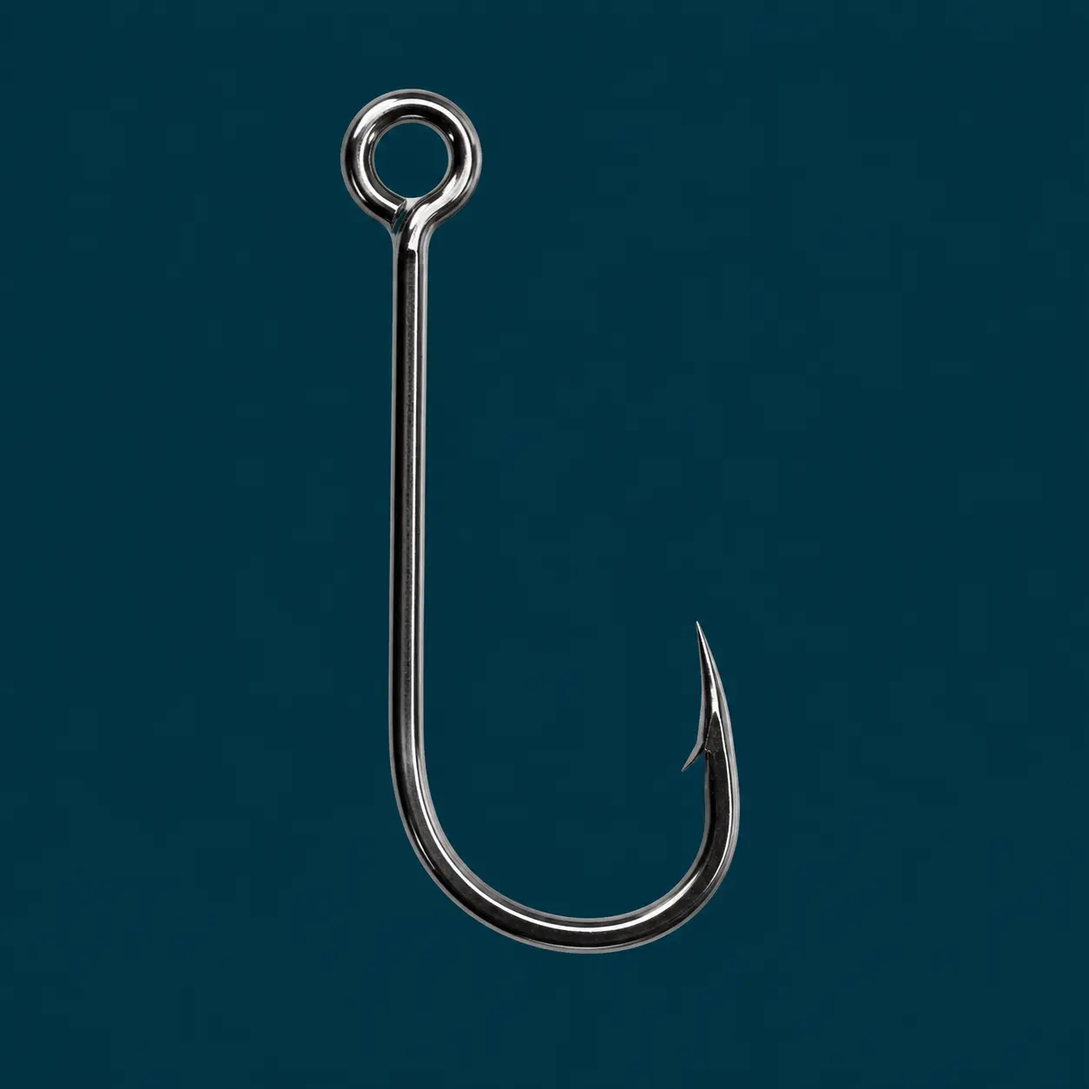
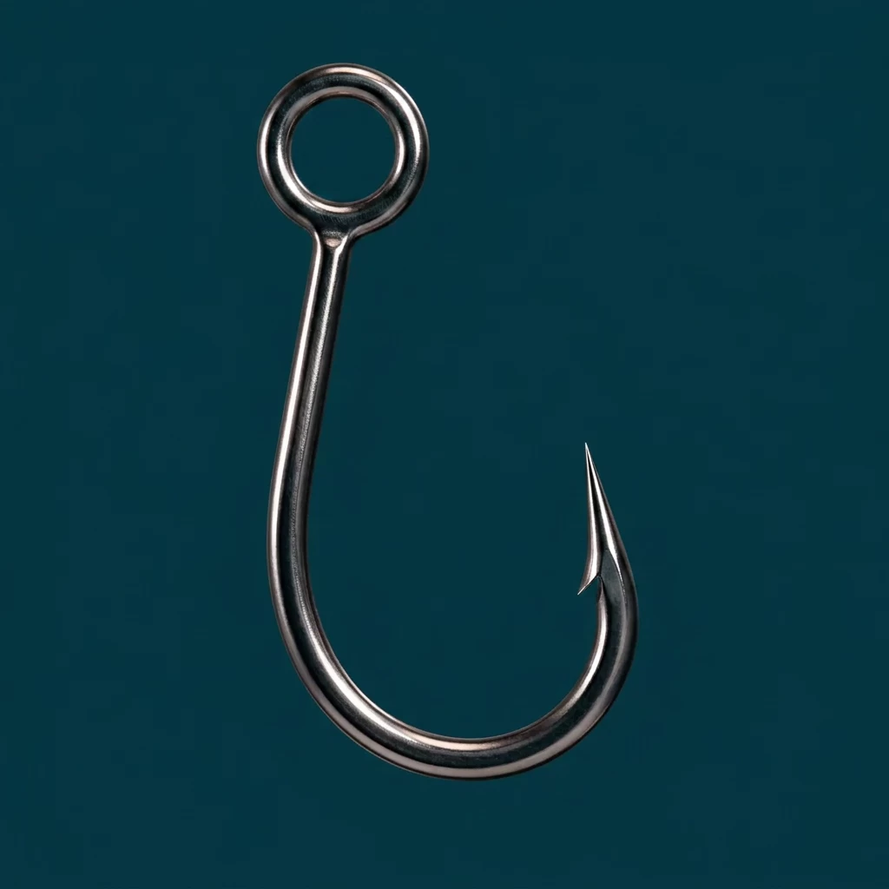
Fix Hook Matcher hook images and add Baitholder hook type
Five hook types (Live Bait, Kahle, Inline Single, Tuna, Grouper) used
near-duplicate circle-hook-shaped images despite describing different
shapes. Regenerated distinct studio-style images for each matching the
existing visual style, and added a real Baitholder Hook (common in
Middle East shore/surf fishing) with matching image, copy and decision
logic for strip/squid bait. Also added a proper "Other / not listed"
fish flow with a custom name field and a teeth/bite-through toggle that
feeds the tooth-risk warning, and a "For <fish> · <size>" summary line
on the result card.

Changed region(s): [[0.2812, 0.0625, 0.7188, 0.875]]

diff --git a/app/hook-matcher/page.tsx b/app/hook-matcher/page.tsx
@@ -35,6 +35,7 @@ const hooks: Hook[] = [
   { id:"jighead", name:{en:"Jig Head Hook",ar:"خطاف الجيج هيد"}, image:"/assets/hooks/jig-head-hook.webp", shape:{en:"Weighted head moulded onto a single hook.",ar:"رأس رصاص مثبت على خطاف فردي."}, best:{en:"Soft plastics, casting and bottom control.",ar:"السيليكون والكاستنج والتحكم قرب القاع."}, avoid:{en:"A head too heavy for depth, current or lure action.",ar:"رأس أثقل من العمق أو التيار أو حركة الطُعم."}, presentation:{en:"Paddletails, worms and soft shads.",ar:"بادل تيل وديدان وسيليكون شاد."}, set:{en:"Feel the bite, reel down and strike firmly.",ar:"اشعر بالعضة ولم الخيط ثم اضرب بثبات."}, snag:{en:"Medium–high",ar:"متوسط–مرتفع"}, damage:{en:"Medium",ar:"متوسط"}, mistake:{en:"Rigging the plastic crooked or hiding the point.",ar:"تركيب السيليكون معوجاً أو إخفاء السن."}, strength:{en:"Fine to heavy",ar:"رفيع إلى ثقيل"} },
   { id:"tuna", name:{en:"Heavy-Duty / Tuna Hook",ar:"خطاف التونة شديد التحمل"}, image:"/assets/hooks/tuna-hook.webp", shape:{en:"Compact heavy wire built for extreme load.",ar:"سلك ثقيل مدمج لتحمل أحمال كبيرة."}, best:{en:"Tuna, GT, amberjack and large pelagic fish.",ar:"التونة والجي تي والأمبرجاك والأسماك السطحية الكبيرة."}, avoid:{en:"Small bait or light tackle that cannot drive thick wire.",ar:"الطُعم الصغير أو العدة الخفيفة التي لا تثبت السلك السميك."}, presentation:{en:"Large bait, trolling and heavy live-bait rigs.",ar:"طُعم كبير وجر وتجهيزات طُعم حي ثقيلة."}, set:{en:"Build heavy pressure with a loaded rod and tight drag system.",ar:"ابنِ ضغطاً قوياً بقصبة محملة وفرامل مضبوطة."}, snag:{en:"Medium",ar:"متوسط"}, damage:{en:"Medium",ar:"متوسط"}, mistake:{en:"Using heavy wire without enough tackle power to penetrate.",ar:"استخدام سلك ثقيل دون قوة عدة كافية للاختراق."}, strength:{en:"3X, 4X or heavy duty",ar:"3X أو 4X أو شديد التحمل"} },
   { id:"grouper", name:{en:"Grouper / Reef Hook",ar:"خطاف الهامور والشعاب"}, image:"/assets/hooks/grouper-hook.webp", shape:{en:"Short, very strong heavy-wire profile.",ar:"شكل قصير شديد القوة بسلك ثقيل."}, best:{en:"Grouper, reef fishing and heavy structure.",ar:"الهامور والصيد على الشعاب والعوائق الثقيلة."}, avoid:{en:"Small delicate bait or light line.",ar:"الطُعم الدقيق أو الخيط الخفيف."}, presentation:{en:"Large live bait and chunk bait.",ar:"طُعم حي كبير وقطع طُعم."}, set:{en:"Apply pressure immediately and turn the fish away from cover.",ar:"اضغط فوراً ووجّه السمكة بعيداً عن العوائق."}, snag:{en:"Medium–high",ar:"متوسط–مرتفع"}, damage:{en:"Medium",ar:"متوسط"}, mistake:{en:"Pairing a strong hook with leader too weak for structure.",ar:"تركيب خطاف قوي مع ليدر أضعف من العوائق."}, strength:{en:"4X / heavy duty",ar:"4X / شديد التحمل"} },
+  { id:"baitholder", name:{en:"Baitholder Hook",ar:"خطاف حامل الطُعم"}, image:"/assets/hooks/baitholder-hook.webp", shape:{en:"Long Aberdeen-style shank with small barbs cut into the back to grip bait.",ar:"ساق طويلة على طراز أبردين مع نتوءات صغيرة خلفية لتثبيت الطُعم."}, best:{en:"Shore and surf fishing with worms, strips or cut bait that would otherwise slide down the shank.",ar:"الصيد من الشاطئ بالديدان والشرائح وقطع الطُعم التي قد تنزلق على الساق."}, avoid:{en:"Delicate live bait, since the barbs can tear it.",ar:"الطُعم الحي الرقيق لأن النتوءات قد تمزقه."}, presentation:{en:"Worms, sardine strips, squid strips and small cut bait.",ar:"الديدان وشرائح السردين والسبيط وقطع الطُعم الصغيرة."}, set:{en:"Strike and set the hook firmly, like a standard J-hook.",ar:"اضرب وثبّت الخطاف بقوة مثل خطاف J العادي."}, snag:{en:"Medium",ar:"متوسط"}, damage:{en:"Medium",ar:"متوسط"}, mistake:{en:"Threading bait past the barbs so it no longer stays gripped.",ar:"تمرير الطُعم متجاوزاً النتوءات فلا يبقى مثبتاً."}, strength:{en:"Fine to medium",ar:"رفيع إلى متوسط"} },
 ];
 
 const styles = [
@@ -45,7 +46,7 @@ const fish = [
   ["bluefish","Bluefish","مياس"], ["barracuda","Barracuda","باراكودا"], ["needlefish","Needlefish","خرمان"], ["seabass","Sea Bass","قاروص"],
   ["seabream","Sea Bream","دنيس"], ["mormora","Mormora","مرمار"], ["bonito","Bonito","بلاميطة"], ["mackerel","Mackerel","ماكريل"],
   ["leerfish","Leerfish","لوت"], ["grouper","Grouper","هامور"], ["amberjack","Amberjack","أمبرجاك"], ["mahi","Mahi Mahi","ماهي ماهي"],
-  ["gt","GT","جي تي"], ["queenfish","Queenfish","كوين فيش"], ["tuna","Tuna","تونة"], ["snapper","Snapper","نهاش"], ["other","Other","أخرى"],
+  ["gt","GT","جي تي"], ["queenfish","Queenfish","كوين فيش"], ["tuna","Tuna","تونة"], ["snapper","Snapper","نهاش"],
 ];
 const sizes = [["u1","Under 1 kg","أقل من 1 كجم"],["1-3","1–3 kg","1–3 كجم"],["3-5","3–5 kg","3–5 كجم"],["5-10","5–10 kg","5–10 كجم"],["10-20","10–20 kg","10–20 كجم"],["20-40","20–40 kg","20–40 كجم"],["40+","40 kg+","40 كجم+"]];
 const natural = [["shrimp","Shrimp","جمبري"],["worm","Worm","دود"],["strip","Sardine strip","شريحة سردين"],["sardine","Whole sardine","سردينة كاملة"],["live","Live baitfish","سمكة طُعم حية"],["dead","Dead baitfish","سمكة طُعم ميتة"],["squid","Squid","سبيط"],["crab","Crab","كابوريا"],["chunk","Chunk bait","قطعة طُعم"]];
@@ -61,6 +62,8 @@ export default function HookMatcherPage(){
   const [step,setStep]=useState(1);
   const [style,setStyle]=useState("shore-jig");
   const [target,setTarget]=useState("bluefish");
+  const [customFishName,setCustomFishName]=useState("");
+  const [customToothy,setCustomToothy]=useState(false);
   const [size,setSize]=useState("3-5");
   const [source,setSource]=useState<"natural"|"artificial">("artificial");
   const [item,setItem]=useState("jig");
@@ -83,13 +86,16 @@ export default function HookMatcherPage(){
     let id="j", alt="circle", position=t("Mainline bait hook","خطاف الطُعم الرئيسي"), why=t("A versatile bait hook that matches an active fishing technique.","خطاف طُعم عملي يناسب أسلوب الصيد النشط."), range=t("Match #4–2/0 to the bait profile","طابق #4–2/0 مع حجم الطُعم"), rating=t("Good match","اختيار جيد");
     if(powerful){id=target==="grouper"?"grouper":"tuna";alt="circle";range=t("Heavy-duty 5/0–10/0; verify actual gap dimensions","شديد التحمل 5/0–10/0؛ تحقق من أبعاد الفتحة");why=t("Powerful fish and high load require thick wire and tackle that can drive it.","السمكة القوية والحمل العالي يحتاجان سلكاً سميكاً وعدة قادرة على تثبيته.");rating=t("Excellent match","اختيار ممتاز")}
     if(source==="natural"&&["live","dead","sardine","chunk"].includes(item)){id="circle";alt="live";position=t("Mainline or bridle bait hook","خطاف رئيسي أو تركيب بالرباط");why=t("The inward point suits larger natural bait and can reduce deep hooking when pressure builds gradually.","السن الداخلي يناسب الطُعم الطبيعي الكبير وقد يقلل البلع العميق عند زيادة الضغط تدريجياً.");range=t("2/0–7/0, sized to keep the bait and hook gap exposed","2/0–7/0 مع إبقاء فتحة الخطاف مكشوفة");rating=t("Excellent match","اختيار ممتاز")}
-    if(source==="natural"&&item==="worm"){id="long";alt="j";why=t("The long shank supports a long bait and makes removal easier.","الساق الطويلة تدعم الطُعم الطويل وتسهل نزع الخطاف.");range=t("#8–1/0 according to worm thickness","#8–1/0 حسب سمك الدودة")}
+    if(source==="natural"&&item==="worm"){id="long";alt="baitholder";why=t("The long shank supports a long bait and makes removal easier.","الساق الطويلة تدعم الطُعم الطويل وتسهل نزع الخطاف.");range=t("#8–1/0 according to worm thickness","#8–1/0 حسب سمك الدودة")}
+    if(source==="natural"&&["strip","squid"].includes(item)){id="baitholder";alt="j";position=t("Mainline shore/surf bait hook","خطاف رئيسي للصيد من الشاطئ");why=t("The shank barbs grip a thin strip or squid piece so it stays put through the cast and the retrieve.","نتوءات الساق تثبت الشريحة أو قطعة السبيط الرقيقة أثناء الرمي والاسترجاع.");range=t("#4–2/0 to the strip width","#4–2/0 حسب عرض الشريحة")}
     if(source==="artificial"&&item==="soft"){id=snag?"ewg":"jighead";alt=snag?"jighead":"ewg";position=t(snag?"Weedless-style rig":"Weighted front hook","تركيب مقاوم للتعليق");why=t(snag?"A protected point lowers snag exposure around structure.":"A jig head controls depth and keeps the soft plastic working correctly.",snag?"السن المحمي يقلل التعليق حول العوائق.":"الجيج هيد يتحكم في العمق ويحافظ على حركة السيليكون.");range=t("Keep enough gap clear after rigging the plastic","اترك فتحة كافية بعد تركيب السيليكون")}
     if(source==="artificial"&&["minnow","popper","stickbait","pencil"].includes(item)){id=snag?"inline":"treble";alt=snag?"treble":"inline";position=t("Lure belly/tail replacement","بديل أسفل أو ذيل الطُعم");why=t(snag?"An inline single reduces snag points and fish damage while preserving lure balance.":"A correctly sized treble offers multiple contact points on open water.",snag?"الفردي المستقيم يقلل نقاط التعليق وضرر السمكة مع الحفاظ على توازن الطُعم.":"الخطاف الثلاثي بالحجم الصحيح يوفر نقاط تثبيت متعددة في المياه المفتوحة.");range=t("Match hook mass and gape to the original lure hardware","طابق وزن وفتحة الخطاف مع تجهيز الطُعم الأصلي")}
     if(source==="artificial"&&item==="jig"){id="assist";alt="inline";position=t(snag?"Front single or twin assist; no automatic rear treble":"Front single/twin assist; rear optional","أسيست فردي أو مزدوج أمامي؛ لا ثلاثي خلفي تلقائياً");why=t(snag?"A front assist keeps good exposure around the jig head with less bottom snagging than a large rear treble.":"An assist hook follows jig strikes without adding excessive drag.",snag?"الأسيست الأمامي يوفر كشفاً جيداً قرب رأس الجيج مع تعليق أقل من الثلاثي الخلفي الكبير.":"الأسيست يتعامل مع ضربات الجيج دون مقاومة زائدة.");range=t("Assist gap about the jig width; cord should not overreach the body","فتحة الأسيست قريبة من عرض الجيج والحبل لا يتجاوز الجسم");rating=t("Excellent match","اختيار ممتاز")}
     const hook=hooks.find(h=>h.id===id)!;
-    return {hook,alternative:hooks.find(h=>h.id===alt)!,position,why,range,rating,snag, tooth:["bluefish","barracuda","mackerel"].includes(target)};
-  },[style,target,size,source,item,structure,condition,rtl]);
+    const tooth=target==="other"?customToothy:["bluefish","barracuda","mackerel"].includes(target);
+    const targetLabel=target==="other"?(customFishName.trim()||t("this species","هذه السمكة")):(rtl?fish.find(f=>f[0]===target)?.[2]:fish.find(f=>f[0]===target)?.[1])||target;
+    return {hook,alternative:hooks.find(h=>h.id===alt)!,position,why,range,rating,snag,tooth,targetLabel};
+  },[style,target,size,source,item,structure,condition,customFishName,customToothy,rtl]);
 
   const anatomyCopy:Record<string,Copy>={eye:{en:"Connects the hook to line, split ring or assist cord. Eye style affects alignment.",ar:"تربط الخطاف بالخيط أو الحلقة أو حبل الأسيست ويؤثر اتجاهها في المحاذاة."},shank:{en:"Controls bait support, leverage and the overall hook profile.",ar:"تتحكم في دعم الطُعم والرافعة والشكل العام للخطاف."},bend:{en:"The curved load-bearing section. Its shape influences strength and holding power.",ar:"الجزء المنحني الحامل للحمل ويؤثر شكله في القوة والثبات."},gap:{en:"Must remain open after bait is attached so the point can penetrate properly.",ar:"يجب أن تبقى مفتوحة بعد تركيب الطُعم حتى يخترق السن بشكل صحيح."},point:{en:"The penetrating tip; keep it sharp, exposed and free of corrosion.",ar:"سن الاختراق؛ يجب أن يبقى حاداً ومكشوفاً وخالياً من الصدأ."},barb:{en:"Helps retain the fish but increases removal difficulty and potential damage.",ar:"يساعد على تثبيت السمكة لكنه يزيد صعوبة النزع والضرر المحتمل."},throat:{en:"Distance from the point down toward the bend; affects holding depth.",ar:"المسافة من السن باتجاه الانحناء وتؤثر في عمق التثبيت."},offset:{en:"Sideways point offset can improve exposure but may change hooking behaviour.",ar:"انحراف السن جانبياً قد يزيد الكشف لكنه يغير سلوك التثبيت."}};
   const active=hooks.find(h=>h.id===activeHook)!; const left=hooks.find(h=>h.id===compareA)!; const right=hooks.find(h=>h.id===compareB)!;
@@ -111,11 +117,11 @@ export default function HookMatcherPage(){
     <section className="hook-matcher-shell">
       <div className="hook-progress">{[1,2,3,4,5].map(n=><span key={n} className={step>=n?"active":""}><b>{n}</b>{n<5&&<i/>}</span>)}</div>
       {step===1&&<div className="hook-step"><small>{t("STEP 1 OF 5","الخطوة 1 من 5")}</small><h2>{t("How are you fishing?","ما طريقة الصيد؟")}</h2><OptionGrid items={styles} value={style} onChange={setStyle} rtl={rtl}/></div>}
-      {step===2&&<div className="hook-step"><small>{t("STEP 2 OF 5","الخطوة 2 من 5")}</small><h2>{t("Target fish and size","السمكة المستهدفة وحجمها")}</h2><h3>{t("Target fish","السمكة المستهدفة")}</h3><OptionGrid items={fish} value={target} onChange={setTarget} rtl={rtl}/><h3>{t("Expected weight","الوزن المتوقع")}</h3><OptionGrid items={sizes} value={size} onChange={setSize} rtl={rtl}/></div>}
+      {step===2&&<div className="hook-step"><small>{t("STEP 2 OF 5","الخطوة 2 من 5")}</small><h2>{t("Target fish and size","السمكة المستهدفة وحجمها")}</h2><h3>{t("Target fish","السمكة المستهدفة")}</h3><div className="hook-options">{fish.map(([id,en,ar])=><button type="button" key={id} className={target===id?"selected":""} onClick={()=>setTarget(id)}>{rtl?ar:en}{target===id&&<Check size={15}/>}</button>)}<button type="button" className={target==="other"?"selected":""} onClick={()=>setTarget("other")}>{t("Other / not listed","أخرى / غير مدرجة")}{target==="other"&&<Check size={15}/>}</button></div>{target==="other"&&<div className="hook-custom-fish"><label>{t("Fish name (optional)","اسم السمكة (اختياري)")}<input type="text" value={customFishName} onChange={(e)=>setCustomFishName(e.target.value)} placeholder={t("e.g. Hamour","مثال: هامور")}/></label><button type="button" className={customToothy?"selected":""} onClick={()=>setCustomToothy(v=>!v)}>{customToothy&&<Check size={15}/>}{t("Has sharp teeth or can bite through leader","لديها أسنان حادة قد تقطع الليدر")}</button></div>}<h3>{t("Expected weight","الوزن المتوقع")}</h3><OptionGrid items={sizes} value={size} onChange={setSize} rtl={rtl}/></div>}
       {step===3&&<div className="hook-step"><small>{t("STEP 3 OF 5","الخطوة 3 من 5")}</small><h2>{t("What are you using?","ماذا ستستخدم؟")}</h2><div className="hook-source"><button className={source==="natural"?"selected":""} onClick={()=>setSource("natural")}>{t("Natural bait","طُعم طبيعي")}</button><button className={source==="artificial"?"selected":""} onClick={()=>setSource("artificial")}>{t("Artificial lure","طُعم صناعي")}</button></div><OptionGrid items={source==="natural"?natural:artificial} value={item} onChange={setItem} rtl={rtl}/></div>}
       {step===4&&<div className="hook-step"><small>{t("STEP 4 OF 5","الخطوة 4 من 5")}</small><h2>{t("Structure and conditions","القاع والظروف")}</h2><h3>{t("Where are you fishing?","أين تصيد؟")}</h3><OptionGrid items={structures} value={structure} onChange={setStructure} rtl={rtl}/><h3>{t("Fishing conditions","ظروف الصيد")}</h3><OptionGrid items={[["calm","Calm","هادئة"],["normal","Normal","عادية"],["rough","Rough / strong current","أمواج أو تيار قوي"]]} value={condition} onChange={setCondition} rtl={rtl}/></div>}
       {step===5&&<div className="hook-result">
-        <div className="hook-result-main"><div className="match-pill"><Check size={15}/>{recommendation.rating}</div><p>{t("RECOMMENDED HOOK SETUP","تجهيز الخطاف المقترح")}</p><h2>{rtl?recommendation.hook.name.ar:recommendation.hook.name.en}</h2><img src={recommendation.hook.image} alt={rtl?recommendation.hook.name.ar:recommendation.hook.name.en}/></div>
+        <div className="hook-result-main"><div className="match-pill"><Check size={15}/>{recommendation.rating}</div><p>{t("RECOMMENDED HOOK SETUP","تجهيز الخطاف المقترح")}</p><h2>{rtl?recommendation.hook.name.ar:recommendation.hook.name.en}</h2><span className="hook-result-for">{t("For","لـ")} {recommendation.targetLabel} · {sizes.find(s=>s[0]===size)?.[rtl?2:1]}</span><img src={recommendation.hook.image} alt={rtl?recommendation.hook.name.ar:recommendation.hook.name.en}/></div>
         <div className="hook-result-details"><div><small>{t("POSITION","الموضع")}</small><strong>{recommendation.position}</strong></div><div><small>{t("SIZE GUIDE","دليل الحجم")}</small><strong>{recommendation.range}</strong></div><div><small>{t("WIRE STRENGTH","قوة السلك")}</small><strong>{rtl?recommendation.hook.strength.ar:recommendation.hook.strength.en}</strong></div><div><small>{t("HOOK-SET","طريقة التثبيت")}</small><strong>{rtl?recommendation.hook.set.ar:recommendation.hook.set.en}</strong></div><article><h3>{t("Why this works","لماذا يناسبك؟")}</h3><p>{recommendation.why}</p></article><article><h3>{t("Common mistake","خطأ شائع")}</h3><p>{rtl?recommendation.hook.mistake.ar:recommendation.hook.mistake.en}</p></article><article><h3>{t("Alternative","البديل")}</h3><p>{rtl?recommendation.alternative.name.ar:recommendation.alternative.name.en}</p></article></div>
         {recommendation.snag&&<div className="hook-warning"><AlertTriangle/><div><strong>{t("Snag warning","تحذير من التعليق")}</strong><p>{t("Rocky structure increases snag risk. Avoid an exposed rear treble unless there is a clear reason to use it.","الصخور ترفع خطر التعليق. تجنب الثلاثي الخلفي المكشوف إلا عند وجود سبب واضح لاستخدامه.")}</p></div></div>}
         {recommendation.tooth&&<div className="hook-warning tooth"><Shield/><div><strong>{t("Tooth risk","خطر الأسنان")}</strong><p>{t("Hook strength does not prevent bite-offs. Use an appropriate abrasion-resistant or wire trace and verify it in Tackle Matcher.","قوة الخطاف لا تمنع قطع الخيط. استخدم ليدر مقاوماً للاحتكاك أو سلكاً مناسباً وراجعه في مطابقة العدة.")}</p><a href="/tackle-matcher">{t("Open Tackle Matcher","افتح مطابقة العدة")}<ChevronRight size={15}/></a></div></div>}

diff --git a/app/globals.css b/app/globals.css
@@ -547,6 +547,8 @@ footer>span { color:#7e9297; font-size:9px; }
 .hook-step { min-height:470px; padding:48px 54px; }.hook-step>small { color:var(--ocean); font-size:9px; font-weight:900; letter-spacing:.16em; }.hook-step h2 { margin:10px 0 30px; font:400 clamp(32px,4vw,48px) Georgia,serif; }.hook-step h3 { margin:26px 0 10px; color:#607a7f; font-size:10px; text-transform:uppercase; letter-spacing:.12em; }
 .hook-options { display:grid; grid-template-columns:repeat(4,1fr); gap:10px; }.hook-options button,.hook-source button { min-height:60px; padding:14px 15px; display:flex; align-items:center; justify-content:space-between; gap:8px; border:1px solid var(--line); border-radius:13px; color:#38565d; background:#fbfdfc; text-align:start; font-size:11px; font-weight:800; cursor:pointer; }.hook-options button:hover,.hook-options button.selected,.hook-source button.selected { border-color:var(--cyan); color:var(--deep); background:#e9faf7; box-shadow:0 8px 20px rgba(7,72,80,.07); }.hook-options button svg { color:var(--ocean); }
 .hook-source { margin-bottom:16px; display:grid; grid-template-columns:1fr 1fr; gap:10px; }.hook-source button { min-height:74px; justify-content:center; font-size:13px; }
+.hook-custom-fish { margin:12px 0 4px; padding:16px; display:grid; gap:12px; border-radius:16px; background:#f0f7f5; }.hook-custom-fish label { display:grid; gap:6px; color:#627a7f; font-size:9px; font-weight:800; text-transform:uppercase; letter-spacing:.08em; }.hook-custom-fish input { height:42px; padding:0 12px; border:1px solid var(--line); border-radius:10px; color:var(--ink); background:white; outline:0; }.hook-custom-fish>button { min-height:44px; padding:0 14px; display:flex; align-items:center; gap:8px; border:1px solid var(--line); border-radius:10px; color:#38565d; background:white; font-size:11px; font-weight:800; cursor:pointer; }.hook-custom-fish>button.selected { border-color:var(--cyan); color:var(--deep); background:#e9faf7; }
+.hook-result-for { margin:0 0 14px; color:#bfe0e3; font-size:11px; font-weight:700; }
 .hook-step-actions { min-height:76px; padding:14px 28px; display:flex; justify-content:flex-end; gap:10px; border-top:1px solid var(--line); background:#f5f9f8; }.hook-step-actions button { min-width:112px; min-height:45px; padding:0 16px; display:flex; align-items:center; justify-content:center; gap:7px; border:1px solid var(--line); border-radius:11px; color:#526d73; background:white; font-size:10px; font-weight:850; cursor:pointer; }.hook-step-actions button.primary { color:white; border-color:var(--deep); background:var(--deep); }.hook-step-actions button:disabled { opacity:.45; cursor:not-allowed; }
 .hook-result { padding:35px; display:grid; grid-template-columns:330px 1fr; gap:16px; }.hook-result-main { min-height:455px; padding:26px; display:flex; align-items:flex-start; flex-direction:column; border-radius:21px; color:white; background:radial-gradient(circle at 50% 55%,#174f59,var(--deep) 70%); }.hook-result-main .match-pill { padding:8px 10px; display:flex; align-items:center; gap:6px; border-radius:9px; color:#07333c; background:var(--cyan); font-size:9px; font-weight:900; }.hook-result-main>p { margin:28px 0 7px; color:#9eb9bc; font-size:8px; font-weight:900; letter-spacing:.14em; }.hook-result-main h2 { margin:0; font:400 31px Georgia,serif; }.hook-result-main img { width:100%; aspect-ratio:1; margin-top:auto; border-radius:17px; object-fit:cover; }
 .hook-result-details { display:grid; grid-template-columns:1fr 1fr; gap:10px; }.hook-result-details>div,.hook-result-details article { padding:17px; border:1px solid var(--line); border-radius:15px; background:#fbfdfc; }.hook-result-details small,.hook-detail-grid small { display:block; margin-bottom:7px; color:#7a9196; font-size:8px; font-weight:900; letter-spacing:.1em; }.hook-result-details strong { font-size:11px; line-height:1.5; }.hook-result-details article { grid-column:1/-1; }.hook-result-details article h3 { margin:0 0 7px; color:var(--ocean); font-size:10px; }.hook-result-details article p { margin:0; color:#526e74; font-size:10px; line-height:1.6; }
